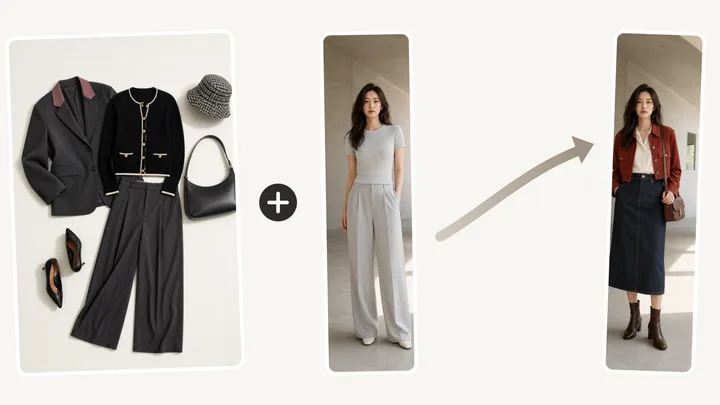
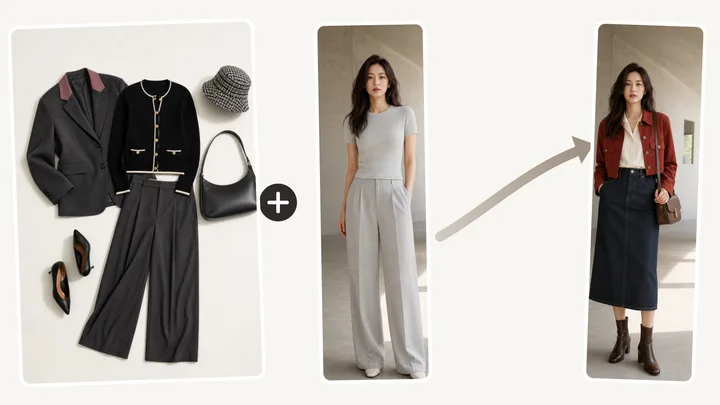
fix: simplify try-on showcase composition

diff --git a/src/pages/Home/productionCaseCatalog.js b/src/pages/Home/productionCaseCatalog.js
@@ -109,7 +109,7 @@ export const PRODUCTION_CASE_CATALOG = Object.freeze([
       asset({ id: 'tryon-angle-motion', src: '/images/home/tryon-showcase/angle-motion.png', label: '动态行走', role: 'result', ratio: '9:16', intent: 'anything_tryon', taskId: 'ec_production_tryon_complete_20260814_v1', requestKey: 'production-tryon-complete-result', prompt: '同一套完整穿搭的动态行走姿态，具有时尚感且不裁切。' }),
       asset({ id: 'tryon-angle-side', src: '/images/home/tryon-showcase/angle-side.png', label: '侧面版型', role: 'result', ratio: '9:16', intent: 'anything_tryon', taskId: 'ec_production_tryon_complete_20260814_v1', requestKey: 'production-tryon-complete-result', prompt: '同一套完整穿搭的侧面版型视图，展示衣摆、裤型与配饰关系。' }),
       asset({ id: 'tryon-angle-back', src: '/images/home/tryon-showcase/angle-back.png', label: '背面细节', role: 'result', ratio: '9:16', intent: 'anything_tryon', taskId: 'ec_production_tryon_complete_20260814_v1', requestKey: 'production-tryon-complete-result', prompt: '同一套完整穿搭的背面视图，保持人物与场景连续。' }),
-      asset({ id: 'tryon-angles-workflow', src: '/images/home/tryon-showcase/editorial-multi-angle-v6.webp?v=arrow-fan-v4', label: '商品到多角度成片', role: 'result', ratio: '16:9', intent: 'anything_tryon', taskId: 'ec_production_tryon_complete_20260814_v1', requestKey: 'production-tryon-complete-result', provenance: 'production-composite', displayRole: 'workflowBanner', selectorPreview: true, prompt: '完整展示炭灰长大衣、橄榄绿针织、奶油色阔腿裤、格纹帽、黑色托特包与四个正式生产的全身时尚角度。' }),
+      asset({ id: 'tryon-angles-workflow', src: '/images/home/tryon-showcase/editorial-multi-angle-v6.webp?v=fan-only-v1', label: '四张模特多角度成片', role: 'result', ratio: '16:9', intent: 'anything_tryon', taskId: 'ec_production_tryon_complete_20260814_v1', requestKey: 'production-tryon-complete-result', provenance: 'production-composite', displayRole: 'workflowBanner', selectorPreview: true, prompt: '四张同套穿搭的完整模特多角度街拍，采用轻微扇形排版，保留正面、动态、侧面与背面全身比例。' }),
     ]),
   }),
   Object.freeze({
